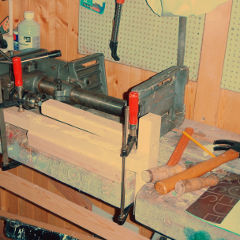
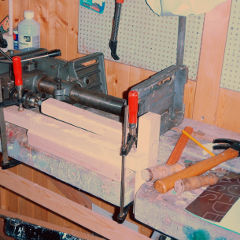
Add big lathe images, lathe text

diff --git a/_posts/2015-11-16-lathe.md b/_posts/2015-11-16-lathe.md
@@ -3,3 +3,10 @@ layout: post
 title: "Homemade wood lathe from drill press"
 thumbnail: lathe-240.jpg
 ---
+At scouting we have workbench with a vice. The handle of the vice was missing and I wanted to make a new one. To do so I tried to make a lathe. I put two screws in a piece of wood. I fastened one screw in the drill press and the other could turn freely in another piece of wood. The thing could then turn and I could hold my chisel to it to make it round.
+
+It didn't go so well, particularly because the chisel I had was not sharp enough and probably not suited for the job. Also, when the turning wood jammed against the chisel, the screw would unscrew itself a bit and the wood would get loose from the drill. But it was nice to try to make something.
+
+![Homemade lathe to make wooden rod](/images/lathe-2-800.jpg)
+
+![Side view of lathe](/images/lathe-1-800.jpg)
